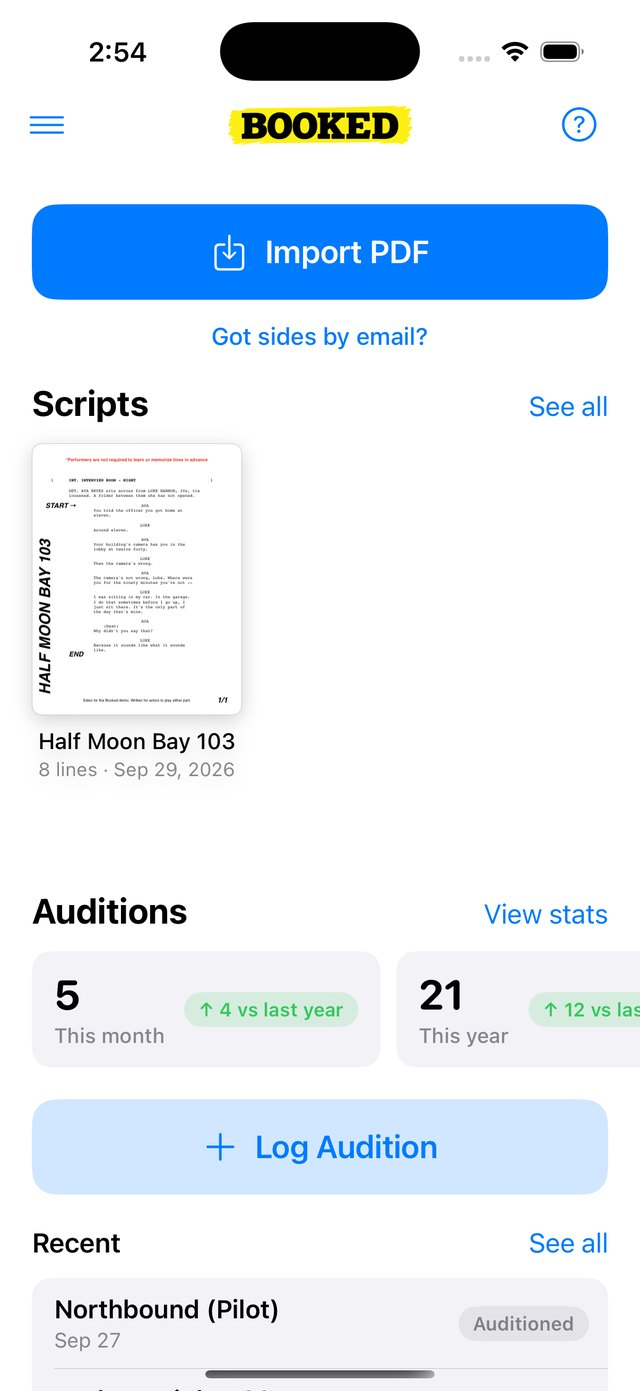
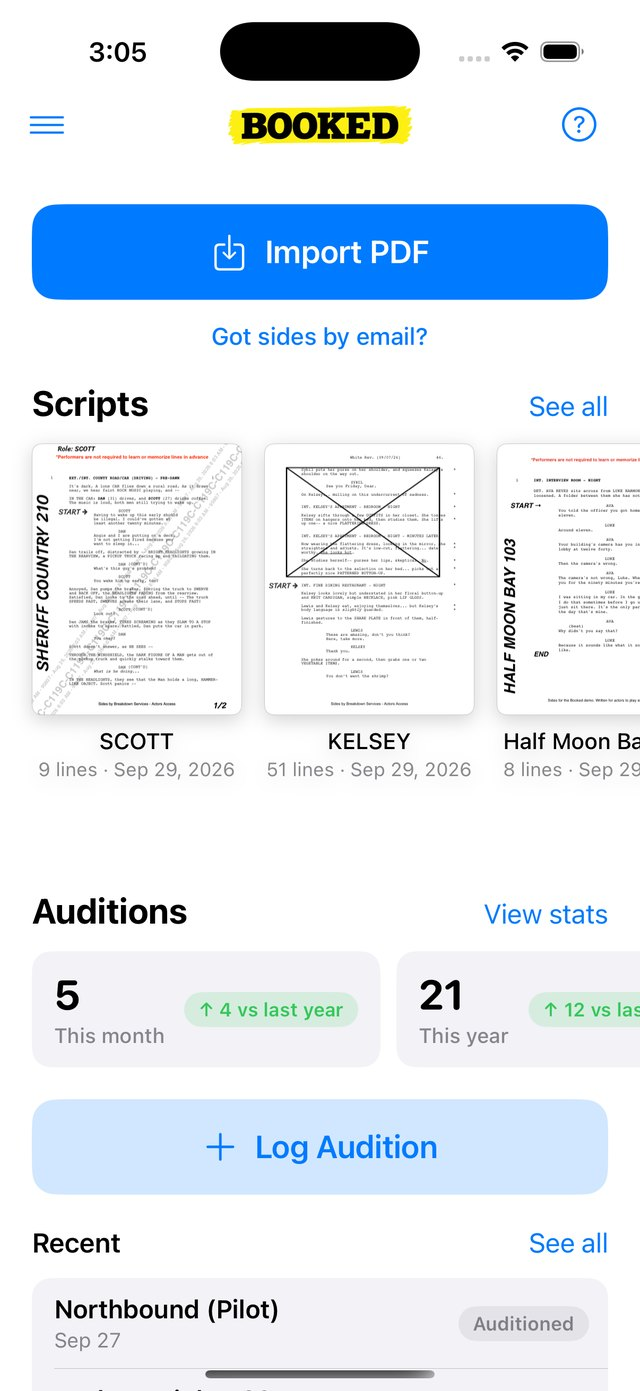
Home v6: Call "line", landscape Record phone, three scripts on Home, script breakdown for the last-minute band, founder photo, three bookings in the sample

diff --git a/public/index.html b/public/index.html
@@ -32,7 +32,7 @@
         "author": { "@type": "Person", "name": "Aris Tyros", "jobTitle": "Actor" },
         "featureList": [
           "AI reader that comes in on your cue",
-          "Say \"line\" to be fed the next words",
+          "Call \"line\" to be fed the next words",
           "Import sides as PDF or share from email",
           "Record self-tapes with the reader",
           "Audition log with stats and a yearly Wrapped"
@@ -42,7 +42,7 @@
         "@type": "FAQPage",
         "mainEntity": [
           { "@type": "Question", "name": "How do I self-tape without a reader?", "acceptedAnswer": { "@type": "Answer", "text": "Use a reader app. Booked reads the other characters' lines in a natural voice, waits while you speak, and comes in on your last word, so you can record the take alone. Casting hears a real back-and-forth rather than you acting against a recording of your own voice." } },
-          { "@type": "Question", "name": "How can I learn lines faster?", "acceptedAnswer": { "@type": "Answer", "text": "Run the scene out loud with a reader, as many times as it takes, and let the reader feed you a few words when you blank instead of stopping to look at the page. In Booked you say \"line\" and it feeds you the next few words and keeps going." } },
+          { "@type": "Question", "name": "How can I learn lines faster?", "acceptedAnswer": { "@type": "Answer", "text": "Run the scene out loud with a reader, as many times as it takes, and let the reader feed you a few words when you blank instead of stopping to look at the page. In Booked you call \"line\" and it feeds you the next few words and keeps going." } },
           { "@type": "Question", "name": "Is Booked free?", "acceptedAnswer": { "@type": "Answer", "text": "Downloading, tracking your auditions and the demo scene are free. Building a reader for your own sides is paid, and priced well under hiring a reader." } },
           { "@type": "Question", "name": "Does Booked use my scripts or self-tapes to train AI?", "acceptedAnswer": { "@type": "Answer", "text": "No. Scripts, rehearsals and self-tapes are not used to train AI, by Booked or by the services behind the reader. Takes never leave your phone." } },
           { "@type": "Question", "name": "Is Booked on Android?", "acceptedAnswer": { "@type": "Answer", "text": "After iPhone." } }
@@ -83,13 +83,13 @@
   <div class="wrap split flip">
     <div class="text"><h2>Learn lines <span class="mark">faster.</span></h2>
     <p class="lead">Import the sides directly from email.</p></div>
-    <div class="device"><img src="shot-script.jpg" alt="A script in Booked with Rehearse and Record buttons" /></div>
+    <div class="device"><img src="shot-home.jpg" alt="Booked's home screen: Import PDF and your scripts as mini pages" /></div>
   </div>
 </section>
 
 <section class="band black">
   <div class="wrap split">
-    <div class="text"><h2>Drawing a blank? Say <span class="mark">&ldquo;line.&rdquo;</span></h2>
+    <div class="text"><h2>Drawing a blank? Call <span class="mark">&ldquo;line.&rdquo;</span></h2>
     <p class="lead">The reader feeds you your next line.</p></div>
     <div class="device small"><img src="shot-rehearse.jpg" alt="The Rehearse screen with the line pill at the top" /></div>
   </div>
@@ -99,7 +99,7 @@
   <div class="wrap split flip">
     <div class="text"><h2>Put yourself <span class="mark white">on tape.</span></h2>
     <p class="lead">Record self-tapes solo.</p></div>
-    <div class="device"><img src="shot-record.jpg" alt="Booked's Record screen: the scene over the camera, a red record button" /></div>
+    <div class="device wide"><img src="shot-record-landscape.jpg" alt="Booked's Record screen held sideways, the way a self-tape is filmed: the scene over the camera, the record button" /></div>
   </div>
 </section>
 
@@ -107,7 +107,7 @@
   <div class="wrap split">
     <div class="text"><h2>No more struggling to find a reader <span class="mark">last minute.</span></h2>
     <p class="lead">Sides at 11 p.m., tape in by morning. No favours owed.</p></div>
-    <div class="device"><img src="shot-home.jpg" alt="Booked's home screen: Import PDF, your scripts, your auditions" /></div>
+    <div class="device"><img src="shot-script.jpg" alt="A script broken down in Booked, with Rehearse and Record at the bottom" /></div>
   </div>
 </section>
 
@@ -131,11 +131,9 @@
   <section>
     <h2>Made for actors by an actor</h2>
     <div class="founder">
-      <div class="disc" aria-hidden="true"></div>
+      <div class="disc"><img src="founder.png" alt="Aris, the actor who made Booked" /></div>
       <div>
-        <p>I've been acting for over a decade (<em>The Boys</em>, <em>Reacher</em>, <em>Assassin's Creed</em>). I know the feeling: your audition is due tomorrow, your friend isn't free, your roommate is tired of reading, and casting doesn't like hearing you act with a recording of yourself.</p>
-        <p>I made Booked so you never have to ask again.</p>
-        <p class="sign">Break a leg,<br />Aris</p>
+        <p>I've been acting for over a decade (<em>The Boys</em>, <em>Reacher</em>, <em>Assassin's Creed</em>). I know the feeling: your audition is due tomorrow, your friend isn't free, your roommate is tired of reading, and casting doesn't like hearing you act with a recording of yourself. That's why I made Booked.</p>
       </div>
     </div>
   </section>
@@ -148,7 +146,7 @@
   <section id="faq">
     <h2>Questions</h2>
     <details><summary>How do I self-tape without a reader?</summary><p>Use a reader app. Booked reads the other characters in a natural voice, waits while you speak, and comes in on your last word, so you can record the take alone. Casting hears a real back-and-forth, not you acting against a recording of your own voice.</p></details>
-    <details><summary>How can I learn lines faster?</summary><p>Run the scene out loud, with a reader, as many times as it takes. When you blank, say &ldquo;line&rdquo; and Booked feeds you the next few words instead of you stopping to look at the page.</p></details>
+    <details><summary>How can I learn lines faster?</summary><p>Run the scene out loud, with a reader, as many times as it takes. When you blank, call &ldquo;line&rdquo; and Booked feeds you the next few words instead of you stopping to look at the page.</p></details>
     <details><summary>What do I need?</summary><p>An iPhone and the PDF of your sides. Booked reads it and works out who says what. No sign-up for that part.</p></details>
     <details><summary>Does it work with my sides as they come?</summary><p>Yes. PDFs from casting or your agent, including scans with your start and end marks. A sharp scan works; a blurry photo of a page may not.</p></details>
     <details><summary>Is it free?</summary><p>Downloading, tracking your auditions and the demo scene are free. Building a reader for your own sides costs real money per script, so that part is paid, and priced well under hiring a reader.</p></details>

diff --git a/public/site.css b/public/site.css
@@ -74,6 +74,11 @@ p { margin: 0 0 14px; }
 }
 .device img { display: block; width: 100%; height: auto; border-radius: 36px; background: #000; }
 .device.small { width: min(230px, 62%); }
+/* Held sideways, the way a self-tape is filmed */
+.device.wide { width: min(560px, 96%); padding: 9px; border-radius: 40px; }
+.device.wide img { border-radius: 32px; }
+.founder .disc { align-items: center; }
+.founder .disc img { width: 100%; height: 100%; object-fit: cover; }
 .device.will-rise { opacity: 0; transform: translateY(28px) scale(0.985); transition: opacity 0.7s ease-out, transform 0.7s cubic-bezier(0.2, 0.7, 0.2, 1); }
 .device.risen { opacity: 1; transform: none; }
 
@@ -136,6 +141,9 @@ footer .made { margin-top: 8px; }
   .split.flip .text { order: 2; }
   .split.flip .device { order: 1; }
   .split .device, .split .device.small { margin: 0 auto; width: min(280px, 100%); }
+  .split .device.wide { width: min(520px, 100%); }
+  .split:has(.device.wide) { grid-template-columns: 1.2fr 0.8fr; }
+  .split.flip:has(.device.wide) { grid-template-columns: 1.2fr 0.8fr; }
   .hero.split { text-align: left; }
   .hero.split .lead { margin-left: 0; }
   .hero.split .stores { justify-content: flex-start; }
